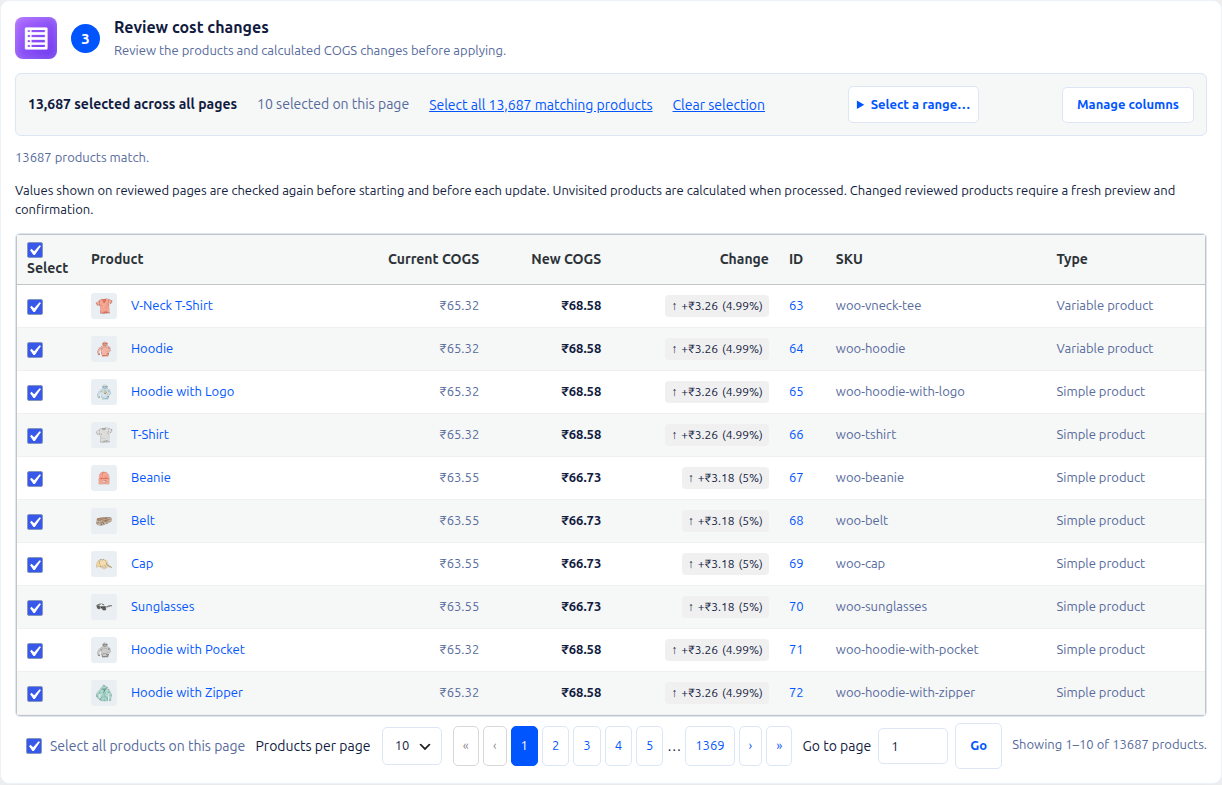
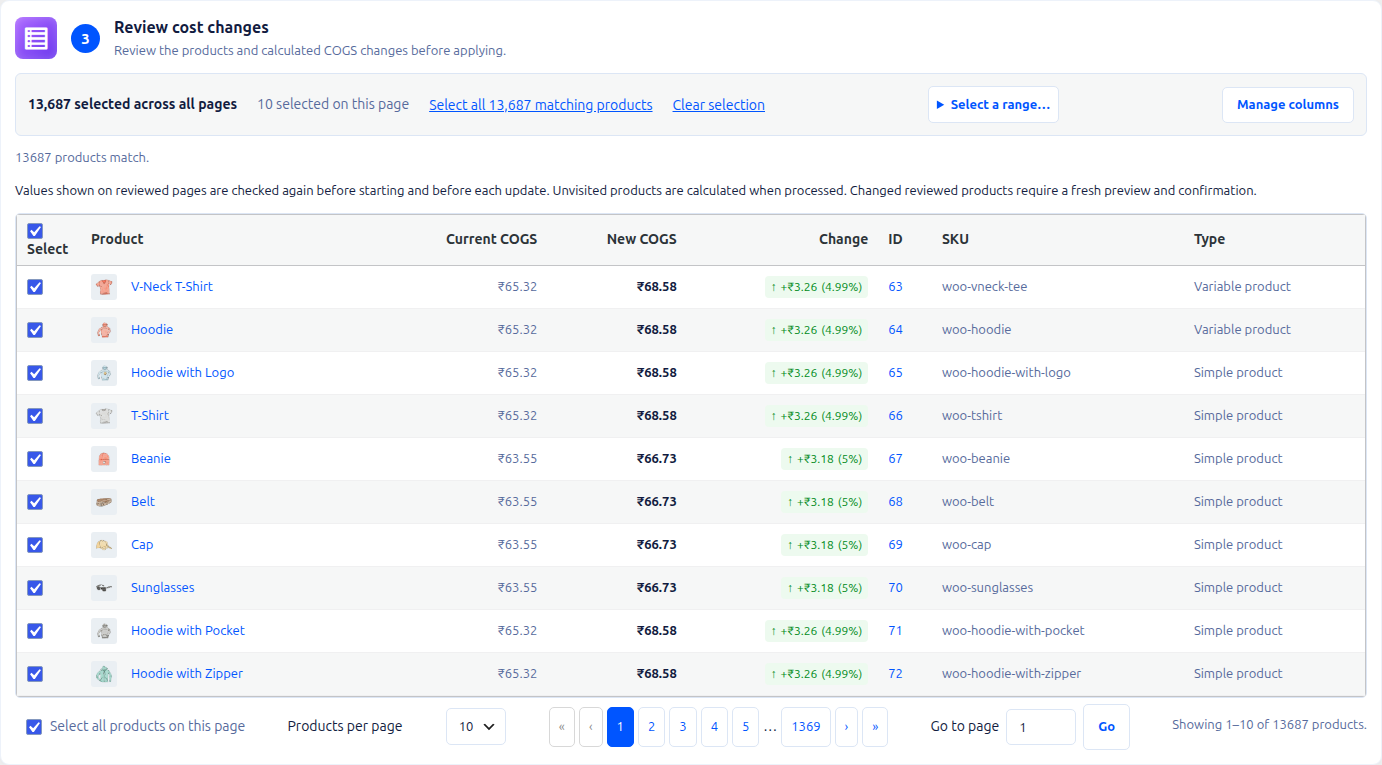
docs: update 1.1.2 features and screenshots
Document history, rollback retries, policy settings, retention, and
recovery fixes. Keep changelog entries ordered by category.

Refresh seven screenshots from existing wpdev records. Explain why
summary-only history cannot offer rollback without retained originals.
No product updates or sample operations were created for these captures.

Validation: Markdown lint, screenshot links, changelog order, visual
inspection, and diff checks passed. Credentials remain outside the repo.

diff --git a/README.md b/README.md
@@ -2,7 +2,7 @@
 
 Review and update product costs in bulk, or transfer costs with CSV and Excel files, directly from your WooCommerce admin.
 
-Bulk COGS Editor works with **WooCommerce’s native Cost of Goods Sold (COGS)** feature. Find the right products, preview the exact changes, choose which records to update, and explicitly confirm before background processing starts. Product selling prices stay untouched.
+Bulk COGS Editor works with **WooCommerce’s native Cost of Goods Sold (COGS)** feature. Find the right products, preview the exact changes, choose which records to update, and explicitly confirm before background processing starts. Product selling prices stay untouched. Inspect past operations in **History**, review a rollback to recorded original costs, and choose retention and rollback behavior in **Settings**.
 
 **Version:** 1.1.2 · **License:** GPLv3 · **HPOS compatible**
 
@@ -17,6 +17,8 @@ Bulk COGS Editor works with **WooCommerce’s native Cost of Goods Sold (COGS)**
 - [Bulk editing workflow](#bulk-editing-workflow)
 - [CSV export](#csv-export)
 - [CSV and Excel import](#csv-and-excel-import)
+- [History and rollback](#history-and-rollback)
+- [Settings](#settings)
 - [Background processing and recovery](#background-processing-and-recovery)
 - [Frequently asked questions](#frequently-asked-questions)
 - [Development and support](#development-and-support)
@@ -38,6 +40,11 @@ Bulk COGS Editor works with **WooCommerce’s native Cost of Goods Sold (COGS)**
 If COGS is unavailable or disabled, the editor explains what is required. Use a packaged plugin build when installing a ZIP; a source checkout needs its dependencies and compiled assets for development.
 
 ## Features
+
+Version **1.1.2** adds CSV and Excel transfer workflows, a searchable **History**
+tab with reviewed background rollbacks, and a **Settings** tab for retention and
+rollback policy. Recovery fixes preserve recorded changes, allow retries for
+remaining rollback products, and keep editor drafts when switching tabs.
 
 ### Find the products you need
 
@@ -67,7 +74,8 @@ Relative adjustments skip products without a saved cost. Use **Set exact cost** 
 
 ### Preview and choose your update scope
 
-- Compare current COGS, new COGS, and the amount and percentage of each change before applying.
+- Compare current COGS, new COGS, and the amount and percentage of each change before applying. Increases are green and decreases red, with directional arrows.
+- Keep your preview and selection when visiting History or Settings and returning to the same editor.
 - Identify products through images, names, SKUs, and product edit links.
 - Show or hide optional columns and retain display preferences.
 - Browse 10, 20, 50, or 100 records per page, or jump directly to a page.
@@ -156,6 +164,73 @@ Preparing an import preview does not update products. Preparation can be cancell
 
 Original uploads are deleted when preparation ends. Staged previews and reports expire through scheduled cleanup after approximately **24 hours**, with retention extended while an applied update is active. Generated export and report download files have scheduled cleanup after **two days**.
 
+## History and rollback
+
+The third tab, **History**, keeps bulk updates, imports, and rollback operations
+in one place. Filter by status, operation type, user, and date range, or search
+by operation ID, note, or product ID. Use numbered pages, page-size choices, or
+**Go to page** to navigate. An optional note entered before starting an update
+helps identify it later.
+
+![History tab with operation filters, statuses, product counts, and numbered pagination](docs/screenshots/history.png)
+
+Choose **View details** to inspect the action, user, filters, note, timestamps,
+duration, outcome counts, and recorded original and updated product costs.
+Active historical details refresh automatically and use the existing
+stale-worker recovery path.
+
+![Existing operation details with completion results and the summary-only history notice](docs/screenshots/operation-details.png)
+
+### Review and confirm a rollback
+
+1. Open **History** and choose **View details** for the source update.
+2. Choose **Review rollback** when retained original costs are available.
+3. Compare current costs with the original values to restore and check the
+   displayed rollback policy.
+4. Check the confirmation and choose **Confirm rollback**.
+5. Follow background progress and inspect updated, skipped, and failed counts.
+
+A rollback restores only products with confirmed original-cost records. It uses
+WooCommerce's COGS APIs, including restoring an unset original cost. Cancelling
+stops remaining work; already restored values stay saved.
+
+After a rollback is cancelled or finishes with failures or skips, return to the
+source operation and review a new attempt for **remaining products only**.
+Products already restored by a successful attempt are excluded, even if someone
+edits their costs later. Repeated confirmation of the same attempt reuses that
+attempt rather than creating another concurrent rollback.
+
+**Older operations can have summary history only.** They cannot be rolled back
+without recorded originals. Expired or deleted original values are unavailable
+for rollback too. The wpdev store used for these screenshots currently has only
+summary records, so its details screenshot shows that actual limitation; no
+sample operations or product updates were created for the screenshots.
+
+## Settings
+
+The fourth tab, **Settings**, controls retained history and the policy applied to
+new rollbacks.
+
+![Settings tab with 30-day, 90-day, and custom retention plus rollback behavior choices](docs/screenshots/settings.png)
+
+| Setting | Choices |
+| --- | --- |
+| History retention | 30 days (default), 90 days, or custom days from 1 to 36,500 |
+| Rollback behavior | Overwrite current costs with originals (default), or skip products whose costs changed afterward |
+
+- **Overwrite** restores recorded original costs even after a later edit.
+- **Skip changed** restores a product only when its current cost still matches
+  the value saved by the source operation. Deleted products are skipped.
+- The policy appears in rollback review and remains fixed for that attempt.
+  Changing Settings affects new attempts.
+- Retention applies to existing completed operations. Reducing it can make older
+  records expire; extending it cannot recover records already deleted.
+- Queued history cleanup rechecks retention before deleting. Active operations
+  and their required source history are preserved until work is finished.
+
+Choose **Save settings** to apply changes. Visiting this tab preserves your
+current bulk or CSV preview and selection.
+
 ## Background processing and recovery
 
 Updates run in **Action Scheduler** batches. The editor displays the task, processed count, progress, elapsed time, estimated remaining time when available, and updated, skipped, and failed counts. Preparation avoids a misleading percentage when the total is not yet known.
@@ -166,7 +241,7 @@ Updates run in **Action Scheduler** batches. The editor displays the task, proce
 - Bounded product queries, batch cache preparation, indexed outcomes, and grouped cache cleanup reduce processing overhead.
 - Expand **Recent activity** to inspect the latest completed operation, including completion time, elapsed time, and any skipped or failed records.
 
-Completed operation history and linked preview claims are retained for at least **30 days**, then removed through bounded daily cleanup. Active operations and import report dependencies are preserved until their work is finished.
+Completed operation history, original cost records, and preview claims use the **Settings** retention period: **30 days by default**, 90 days, or custom days. Bounded daily cleanup removes expired records while preserving active operations and import report dependencies until their work is finished.
 
 ### Optional WP-CLI runner
 
@@ -212,6 +287,24 @@ Yes. Filter for variations and review the resulting records. Variations have the
 
 The editor disables selection and confirmation while results are outdated or loading, and prevents conflicting changes during an active update. Refresh the preview when prompted and review the current results.
 
+### Is cancellation the same as rollback?
+
+No. Cancellation stops remaining work and keeps saved changes. Use **History →
+View details → Review rollback** to review restoring retained original costs.
+
+### Can rollback overwrite a later cost edit?
+
+Yes, with the default overwrite policy. Choose **Skip products whose costs
+changed afterward** in Settings if later edits should be left alone. Every
+attempt shows its policy before confirmation.
+
+### Why is rollback unavailable for an older operation?
+
+It may have summary-only history, no recorded original values, expired history,
+or an active rollback. Original costs cannot be reconstructed from the operation
+summary. A terminal incomplete rollback can be reviewed again for remaining
+recorded products.
+
 ### Does the plugin send store data to external services?
 
 No. Product matching, calculations, previews, imports, exports, and cost updates run on your WordPress installation.
@@ -234,4 +327,4 @@ Use the repository’s [project instructions](AGENTS.md) for contribution conven
 - [Issues and feature requests](https://github.com/dineshinau/bulk-cogs-editor-for-woocommerce/issues)
 - [Performance discussion](https://github.com/dineshinau/bulk-cogs-editor-for-woocommerce/discussions/12)
 
-Screenshots show the plugin on a development store; product data and results are illustrative. Licensed under [GPLv3](https://www.gnu.org/licenses/gpl-3.0.html).
+Screenshots were captured from the **wpdev** development store using its existing products and operation history; product data and results are illustrative. Licensed under [GPLv3](https://www.gnu.org/licenses/gpl-3.0.html).
